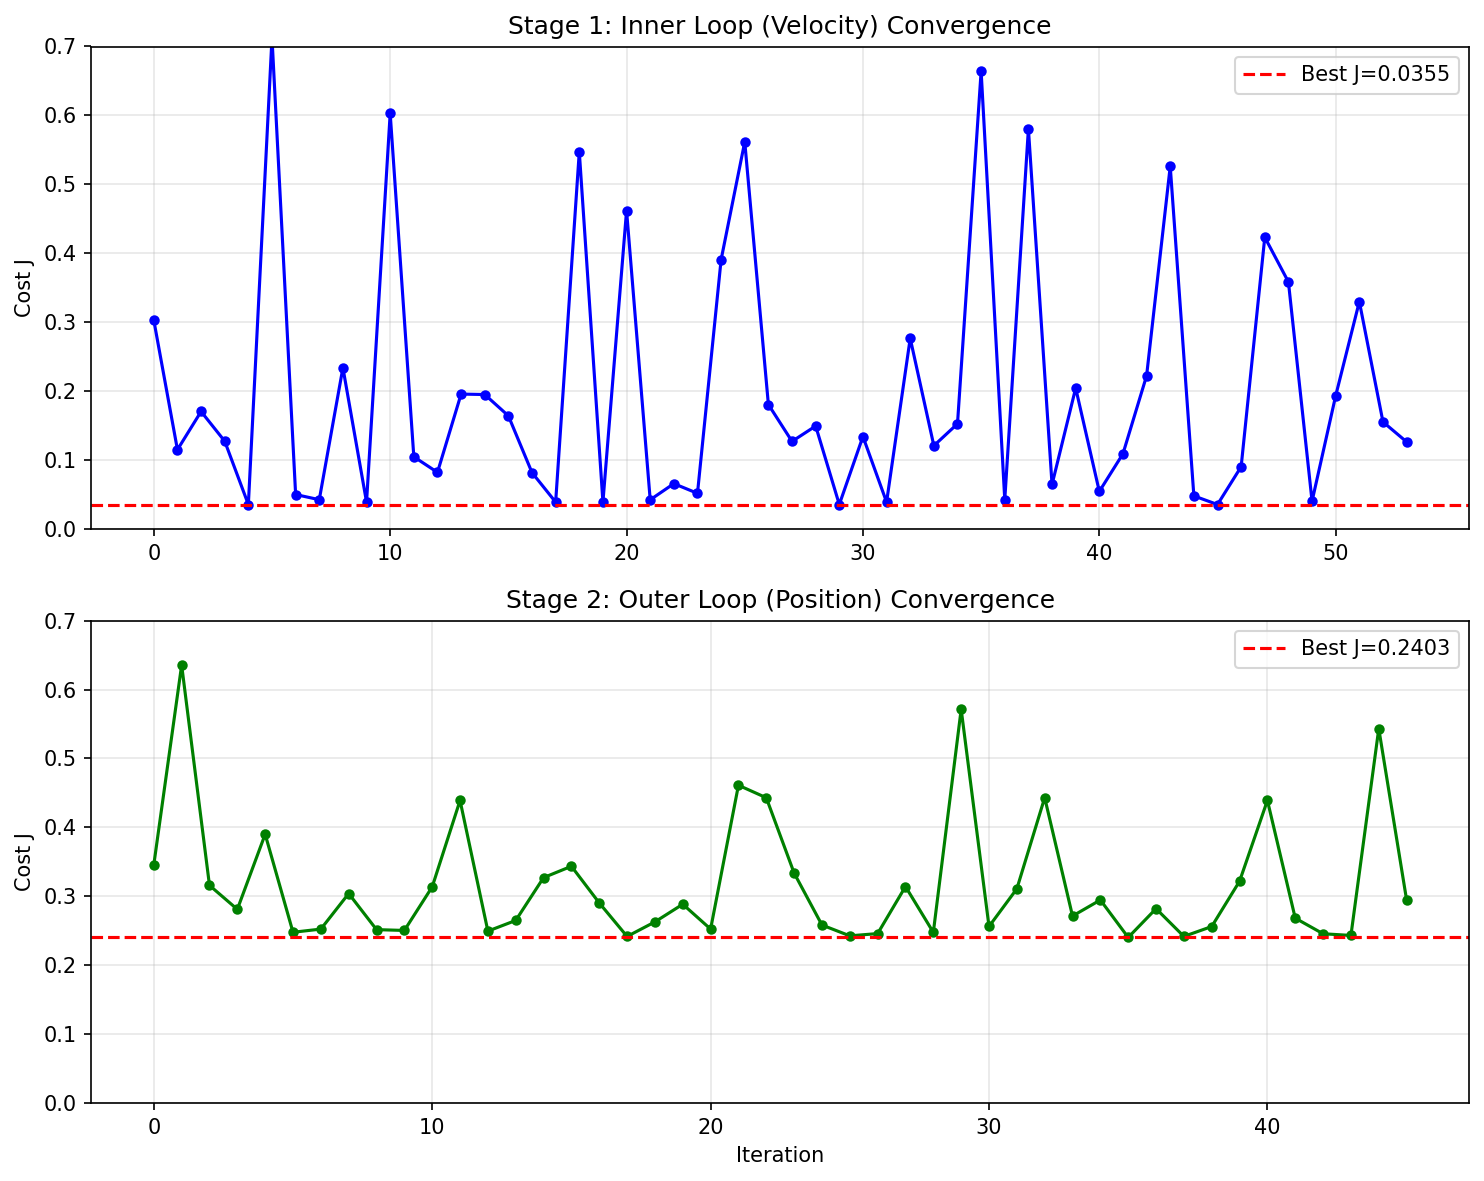
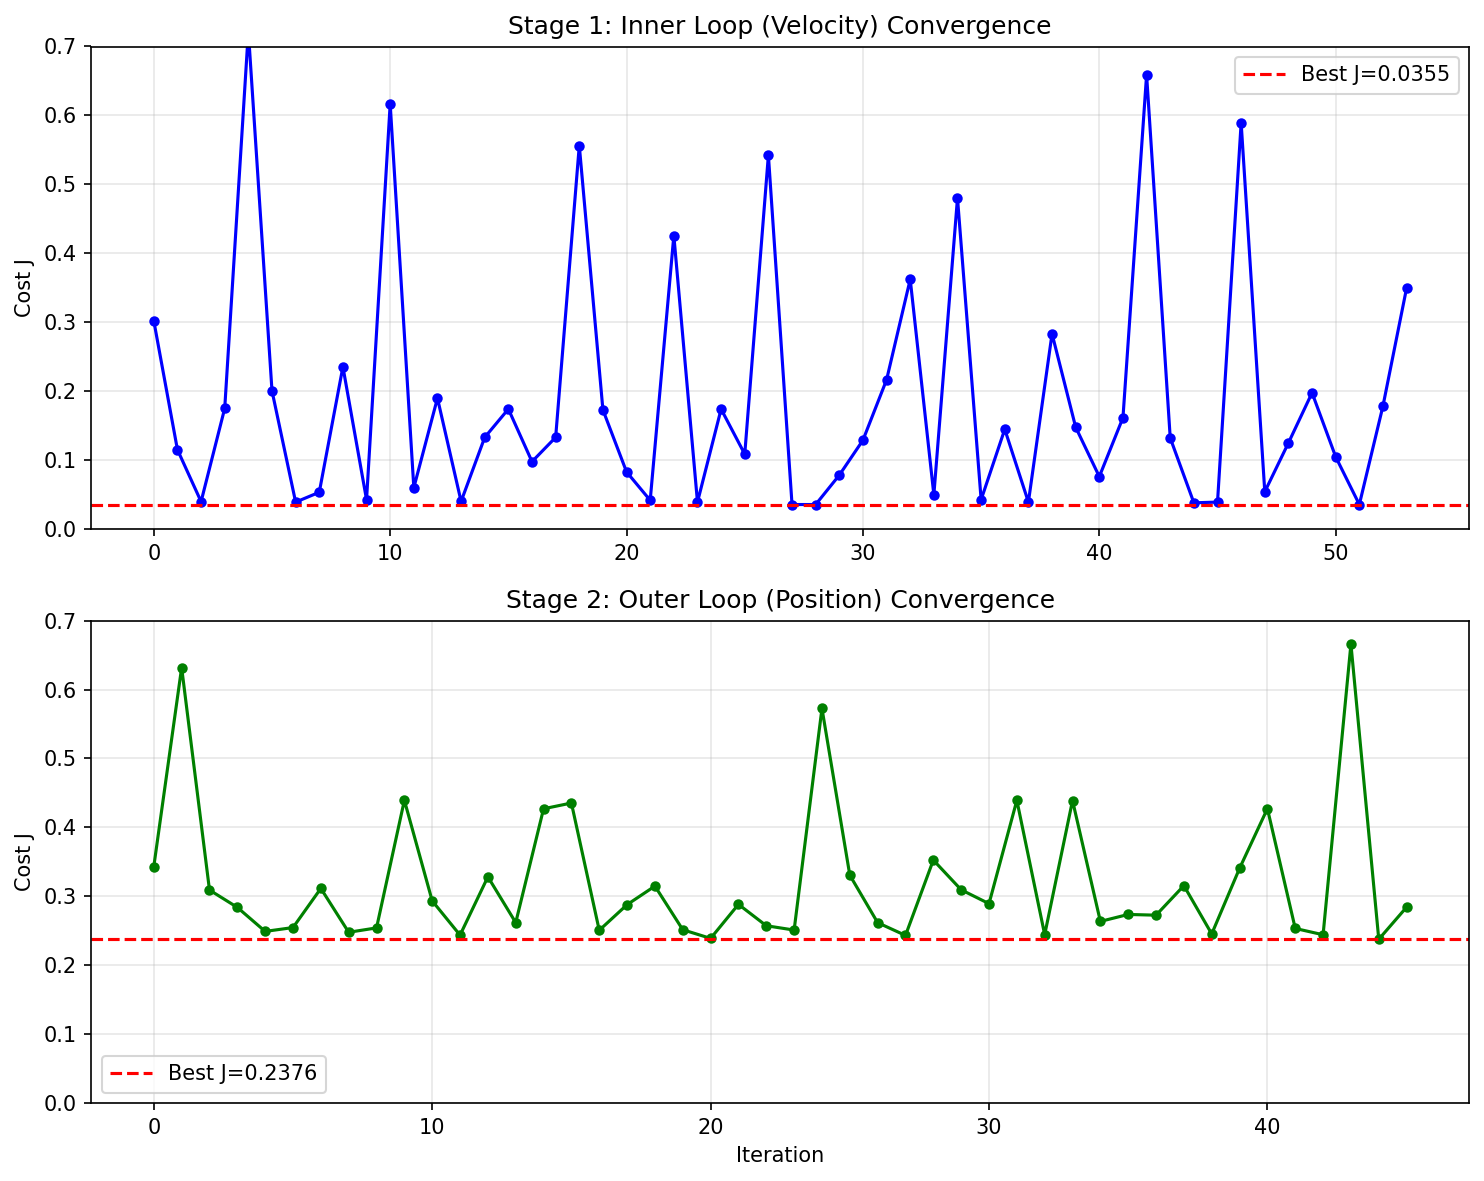
feat: Add alternating positive/negative step scenarios for BO iterations
- Modified BayesianOptimizer to accept scenario_generator parameter
- Scenarios now alternate between positive and negative steps each iteration
- Inner loop: alternates between +0.2 and -0.2 m/s velocity steps
- Outer loop: alternates between +0.1 and -0.1 m position steps
- Improves robustness by testing controllers on bidirectional references
- Added iteration counter feedback for scenario alternation
- Updated .gitignore for temp files

diff --git a/msd_sim.py b/msd_sim.py
@@ -909,7 +909,7 @@ class BayesianOptimizer:
     """
     
     def __init__(self, plant, controller, evaluator, scenarios, bounds_log10, 
-                 weights_cfg, safety_cfg, sim_cfg=None, rng=None):
+                 weights_cfg, safety_cfg, sim_cfg=None, rng=None, scenario_generator=None):
         """
         Initialize Bayesian Optimization Evaluator.
         
@@ -940,6 +940,7 @@ class BayesianOptimizer:
                        }
             sim_cfg: SimConfig instance for simulation settings (optional)
             rng: Random number generator (for reproducibility, optional)
+            scenario_generator: Function that takes iteration count and returns scenarios (optional)
         """
         self.plant = plant
         self.controller = controller
@@ -950,6 +951,7 @@ class BayesianOptimizer:
         self.safety_cfg = safety_cfg
         self.sim_cfg = sim_cfg if sim_cfg is not None else SimConfig(tf=10.0, dt=0.05)
         self.rng = rng if rng is not None else np.random.RandomState(42)
+        self.scenario_generator = scenario_generator  # Store generator function
         
         # Store best results per stage
         self.best = {
@@ -1102,6 +1104,14 @@ class BayesianOptimizer:
                   Returns large negative value for infeasible candidates
         """
         self.eval_count += 1
+        
+        # Update scenarios if generator is provided (for alternating scenarios)
+        if self.scenario_generator is not None and self.current_stage in self.scenario_generator:
+            self.scenarios = self.scenario_generator[self.current_stage](self.eval_count)
+            direction = "NEGATIVE" if self.eval_count % 2 == 1 else "POSITIVE"
+            # Print scenario info only occasionally to avoid clutter
+            if self.eval_count <= 3 or self.eval_count % 10 == 0:
+                print(f"  [Iter {self.eval_count}: Using {direction} step scenario]")
         
         # Convert log10 parameters to actual gains
         gains = self._log10_to_gains(**log10_params)
@@ -1938,7 +1948,7 @@ if __name__ == "__main__":
 
     # Choose what to run
     # Set to "open-loop", "position", "velocity", "cascade", "velocity-setpoint", "comparison", or "bayesian_optimization"
-    run_mode = "velocity-setpoint"
+    run_mode = "bayesian_optimization"
 
     # Initialize MSD
     msd = MassSpringDamper(params, force_fn=lambda t: 0.0)  # force is provided by the PID in closed-loop
@@ -2206,32 +2216,41 @@ if __name__ == "__main__":
         # 1. DEFINE TEST SCENARIOS
         print("Setting up test scenarios...")
         
-        # Stage 1: Inner loop (velocity) test scenarios
-        inner_scenarios = [
-            # Velocity step response
-            (Scenario.step_velocity(magnitude=0.2, t_start=0.5),
-             lambda t: 0.0,
-             "velocity"),
-            
-            # Cruise with step disturbance
-            # (Scenario.cruise(velocity=0.0),
-            #  Scenario.disturbance_impulse(area=1.0, t_impulse=2.0, width=0.01),
-            #  "velocity"),
-        ]
+        # Define scenario generators that will alternate based on iteration count
+        def get_inner_scenarios(iteration):
+            """Generate inner scenarios with alternating positive/negative steps"""
+            vel_magnitude = -0.2 if iteration % 2 == 1 else 0.2
+            return [
+                (Scenario.step_velocity(magnitude=vel_magnitude, t_start=0.5),
+                 lambda t: 0.0,
+                 "velocity"),
+            ]
         
-        # Stage 2: Outer loop (position) test scenarios
-        outer_scenarios = [
-            # Position step response
-            (Scenario.step_position(magnitude=0.1, t_start=0.5),
-             lambda t: 0.0,
-             "position"),
-        ]
+        def get_outer_scenarios(iteration):
+            """Generate outer scenarios with alternating positive/negative steps"""
+            pos_magnitude = -0.1 if iteration % 2 == 1 else 0.1
+            return [
+                (Scenario.step_position(magnitude=pos_magnitude, t_start=0.5),
+                 lambda t: 0.0,
+                 "position"),
+            ]
+        
+        # Start with initial scenarios (will be updated each iteration)
+        inner_scenarios = get_inner_scenarios(0)
+        outer_scenarios = get_outer_scenarios(0)
+        
+        # Store generators for later use
+        scenario_generators = {
+            'inner': get_inner_scenarios,
+            'outer': get_outer_scenarios
+        }
         
         # Start with inner loop scenarios
         test_scenarios = inner_scenarios
         
-        print(f"  ✓ Created {len(inner_scenarios)} inner loop scenarios")
-        print(f"  ✓ Created {len(outer_scenarios)} outer loop scenarios\n")
+        print(f"  ✓ Created alternating scenario generators")
+        print(f"  ✓ Inner loop: velocity steps alternating ±0.2 m/s")
+        print(f"  ✓ Outer loop: position steps alternating ±0.1 m\n")
         
         # 2. CONFIGURE BAYESIAN OPTIMIZATION
         
@@ -2309,10 +2328,12 @@ if __name__ == "__main__":
             weights_cfg=weights_cfg,
             safety_cfg=safety_cfg,
             sim_cfg=opt_sim_cfg,
-            rng=np.random.RandomState(42)  # Reproducibility
+            rng=np.random.RandomState(42),  # Reproducibility
+            scenario_generator=scenario_generators  # Pass the generators for alternating scenarios
         )
         
         print("BayesianOptimizer created successfully\n")
+        print("  → Scenarios will alternate between positive/negative steps each iteration\n")
         
         # 4. STAGE 1: OPTIMIZE INNER LOOP (VELOCITY)
         #
@@ -2613,45 +2634,47 @@ if __name__ == "__main__":
             'Kp_x': best_outer_gains['Kp_x'],
             'Ki_x': best_outer_gains['Ki_x']
         }
-        
-        # 7. SUMMARY AND CONVERGENCE PLOTS
+       
+       # 7. SUMMARY AND CONVERGENCE PLOTS
     
         print("="*80)
         print("OPTIMIZATION SUMMARY")
         print("="*80 + "\n")
         
         optimizer.print_best()
+
+        # Temporarly commented out 27/11/25
         
-        # Visualize GP and Acquisition Function
-        print("\nGenerating GP and Utility Function visualizations...")
-        plot_gp_and_acquisition_2d(inner_optimizer, stage_name='inner', 
-                                    param_names=['log10_Kp_v', 'log10_Ki_v'],
-                                    acquisition_func=ei_acquisition)
-        plot_gp_and_acquisition_2d(outer_optimizer, stage_name='outer',
-                                    param_names=['log10_Kp_x', 'log10_Ki_x'],
-                                    acquisition_func=ei_acquisition_outer)
+        # # Visualize GP and Acquisition Function
+        # print("\nGenerating GP and Utility Function visualizations...")
+        # plot_gp_and_acquisition_2d(inner_optimizer, stage_name='inner', 
+        #                             param_names=['log10_Kp_v', 'log10_Ki_v'],
+        #                             acquisition_func=ei_acquisition)
+        # plot_gp_and_acquisition_2d(outer_optimizer, stage_name='outer',
+        #                             param_names=['log10_Kp_x', 'log10_Ki_x'],
+        #                             acquisition_func=ei_acquisition_outer)
         
-        # Generate BO progression plots (2D contours showing evolution)
-        print("\nGenerating BO progression visualizations (2D contours)...")
-        plot_bo_progression_2d(inner_optimizer, 'inner', 
-                              param_names=['log10_Kp_v', 'log10_Ki_v'],
-                              iterations_to_show=[2, 4, 7, 15, 30, 50], 
-                              acquisition_func=ei_acquisition)
-        plot_bo_progression_2d(outer_optimizer, 'outer',
-                              param_names=['log10_Kp_x', 'log10_Ki_x'],
-                              iterations_to_show=[2, 4, 7, 15, 30, 40], 
-                              acquisition_func=ei_acquisition_outer)
+        # # Generate BO progression plots (2D contours showing evolution)
+        # print("\nGenerating BO progression visualizations (2D contours)...")
+        # plot_bo_progression_2d(inner_optimizer, 'inner', 
+        #                       param_names=['log10_Kp_v', 'log10_Ki_v'],
+        #                       iterations_to_show=[2, 4, 7, 15, 30, 50], 
+        #                       acquisition_func=ei_acquisition)
+        # plot_bo_progression_2d(outer_optimizer, 'outer',
+        #                       param_names=['log10_Kp_x', 'log10_Ki_x'],
+        #                       iterations_to_show=[2, 4, 7, 15, 30, 40], 
+        #                       acquisition_func=ei_acquisition_outer)
         
-        # Generate 1D progression plots (slices showing EI convergence clearly)
-        print("\nGenerating 1D progression visualizations (showing EI convergence)...")
-        plot_bo_progression_1d(inner_optimizer, 'inner', 'log10_Kp_v', 
-                              [2, 4, 7, 15, 30, 50], ei_acquisition, best_inner_gains)
-        plot_bo_progression_1d(inner_optimizer, 'inner', 'log10_Ki_v', 
-                              [2, 4, 7, 15, 30, 50], ei_acquisition, best_inner_gains)
-        plot_bo_progression_1d(outer_optimizer, 'outer', 'log10_Kp_x', 
-                              [2, 4, 7, 15, 30, 40], ei_acquisition_outer, best_outer_gains)
-        plot_bo_progression_1d(outer_optimizer, 'outer', 'log10_Ki_x', 
-                              [2, 4, 7, 15, 30, 40], ei_acquisition_outer, best_outer_gains)
+        # # Generate 1D progression plots (slices showing EI convergence clearly)
+        # print("\nGenerating 1D progression visualizations (showing EI convergence)...")
+        # plot_bo_progression_1d(inner_optimizer, 'inner', 'log10_Kp_v', 
+        #                       [2, 4, 7, 15, 30, 50], ei_acquisition, best_inner_gains)
+        # plot_bo_progression_1d(inner_optimizer, 'inner', 'log10_Ki_v', 
+        #                       [2, 4, 7, 15, 30, 50], ei_acquisition, best_inner_gains)
+        # plot_bo_progression_1d(outer_optimizer, 'outer', 'log10_Kp_x', 
+        #                       [2, 4, 7, 15, 30, 40], ei_acquisition_outer, best_outer_gains)
+        # plot_bo_progression_1d(outer_optimizer, 'outer', 'log10_Ki_x', 
+        #                       [2, 4, 7, 15, 30, 40], ei_acquisition_outer, best_outer_gains)
         
         # Plot convergence for each stage
         fig, axs = plt.subplots(2, 1, figsize=(10, 8))
@@ -2717,7 +2740,7 @@ if __name__ == "__main__":
         
         # Run a longer validation simulation
         val_cfg = SimConfig(t0=0.0, tf=15.0, dt=0.05, x0=0.0, v0=0.0)
-        ref_val = Scenario.step_position(magnitude=0.15, t_start=1.0)  # Simple step for clear metrics
+        ref_val = Scenario.step_position(magnitude=0.1, t_start=0.5)  # Simple step for clear metrics
         
         t, x, v, u, E, KE, PE, x_ref_hist, v_ref_hist = msd.simulate_cascade_loop(
             cfg=val_cfg,
